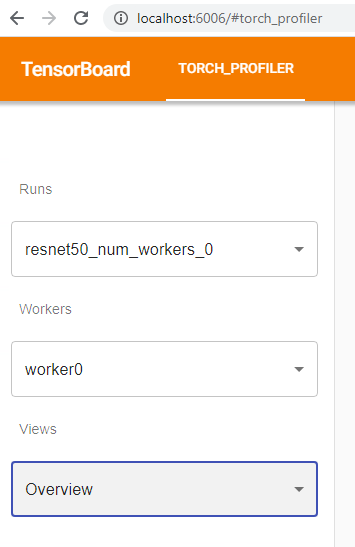
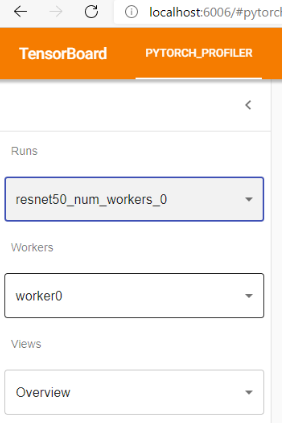
Update plugin's README.md (#55)

diff --git a/tb_plugin/README.md b/tb_plugin/README.md
@@ -6,9 +6,9 @@
 
   `git clone https://github.com/pytorch/kineto.git`
 
-* Navigate to the plugin directory
+* Navigate to the kineto/tb_plugin directory
 
-* Install pytorch_profiler
+* Install the profiler
 
   `pip install .`
 
@@ -26,7 +26,7 @@
 * Start tensorboard
 
   Specify your profiling samples folder.
-  Or you can specify <pytorch_profiler>/samples as an example.
+  Or you can specify kineto/tb_plugin/samples as an example.
 
   `tensorboard --logdir=./samples`
 
@@ -41,16 +41,20 @@
 
   Open URL `http://localhost:6006` in the browser.
 
-* Navigate to TORCH_PROFILER tab
+* Navigate to PYTORCH_PROFILER tab
 
-  If the files under `--logdir` are too big or too many.
-  Refresh the browser to check latest loaded result.
+  If the files under `--logdir` are too big or too many, 
+  please wait a while and refresh the browser to check latest loaded result.
 
 ### Quick Usage Instructions
 
-The profiler organizes each sub-folder under "--logdir" as a run.
-In each run, there could be multiple processes if DDP is used.
-Each process's dumped chrome tracing file is called a worker.
+We regard each running with profiler enabled as a "run".
+In most cases a run is a single process. If DDP is enabled, then a run includes multiple processes.
+We name each process as a "worker".
+
+Each run corresponds to a sub-folder under "--logdir" specified folder.
+Under each run's sub-folder, each file is one worker's dumped chrome tracing file.
+The kineto/tb_plugin/samples is an example of how to organize the files.
 
 You can select run and worker on the left control panel.
    
@@ -96,25 +100,31 @@ Such as cudaLaunchKernel, cudaMemcpyAsync, cudaStreamSynchronize, ...
 
 6. CPU Exec: Host compute time, including every PyTorch operator running time;
 
-7. Other: The time that is not included in any of the above.
+7. Other: The time not included in any of the above.
 
-Note: The summary of all the above categories is end-to-end wall-clock time. 
-We count time by priority. The time cost with highest priority category(Kernel) is counted firstly, 
-then Memcpy, then Memset, ...,  and Other is last counted.
-In the following example, the "Kernel" is counted firstly as 7-6 seconds; 
+Note: The summary of all the above categories is end-to-end wall-clock time.
+ 
+The above list is ranked by priority from high to low. We count time by priority.
+The time cost with highest priority category(Kernel) is counted firstly, 
+then Memcpy, then Memset, ...,  and Other is last counted. 
+In the following example, the "Kernel" is counted firstly as 7-2=5 seconds; 
 Then the "Memcpy" is counted as 0 seconds, because it is fully hidden by "Kernel"; 
-Then "CPU Exec" is counted as 2-1 seconds, because the [2,3] interval is hidden by "Kernel", only [1,2] interval is counted.  
+Then "CPU Exec" is counted as 2-1=1 seconds, because the [2,3] interval is hidden by "Kernel", only [1,2] interval is counted.
+
+In this way, summarization of all the 7 categories' counted time in a step 
+will be the same with this step's total wall clock time.
+     
 ![Alt text](https://github.com/pytorch/kineto/blob/tb_plugin/tb_plugin/docs/images/time_breakdown_priority.PNG)
 
-Performance Recommendation: Leverage the profiling result to automatically get the bottlenecks 
-and give suggestions to optimize. 
+Performance Recommendation: Leverage the profiling result to automatically give user hints of bottlenecks,  
+and give user feasible suggestions to optimize. 
  
 * Operator View
 
-This view displays the performance of every Pytorch operator that is executed either on the host or device.
+This view displays the performance of every PyTorch operator that is executed either on the host or device.
 
 ![Alt text](https://github.com/pytorch/kineto/blob/tb_plugin/tb_plugin/docs/images/operator_view.PNG)
-Each table row is a “Pytorch operator”, which is a computation operator in C++ side, 
+Each table row is a PyTorch operator, which is a computation operator implemented by C++, 
 such as “aten::relu_”, “aten::convolution”.
 
 Calls: The operator's number of calls.
@@ -129,15 +139,16 @@ Host Total Duration: The accumulated time spent on Host, including this operator
 
 Note: Each above duration means wall-clock time. It doesn't mean the GPU or CPU during this period is fully utilized.
 
-The top 4 pie charts are visualizations of the above 4 columns. 
+The top 4 pie charts are visualizations of the above 4 columns of durations. 
 They could show each operator's time percentage more straight forward.
-You can change how many operators with top accumulated time to show in the pie charts. 
+Only N operators with top most durations will be shown in the pie charts. And you can change this N in the text box. 
 
 The search box enables searching operators by name.
 
 “Group By” could choose between “Operator” and “Operator + Input Shape”. 
-The “Input Shape” is each operator’s input argument list’s tensor shapes, 
-“[]” is scalar type. For example, “[[32, 256, 14, 14], [1024, 256, 1, 1], [], [], [], [], [], [], []]” 
+The “Input Shape” is shapes of tensors in this operator’s input argument list.
+The empty “[]” means argument with scalar type. 
+For example, “[[32, 256, 14, 14], [1024, 256, 1, 1], [], [], [], [], [], [], []]” 
 means this operator has 9 input arguments, 
 1st is a tensor of size 32\*256\*14\*14, 
 2nd is a tensor of size 1024\*256\*1\*1, 
@@ -147,13 +158,9 @@ the following 7 ones are scalar variables.
 
 * Kernel View
 
-This view shows all kernels’ time spent on GPU. The time is got from kernel’s end time minus kernel’s start time. 
+This view shows all kernels’ time spent on GPU. The time is got by the kernel's end time minus its start time. 
 
-Note: It does not include cudaMemcpy or cudaMemset now.
-
-Note: This time just records a kernel's elapsed time on GPU device. 
-It does not mean GPU is fully busy during this time interval. 
-That is, GPU occupancy may be less than 100% during this time interval. 
+Note: This view does not include cudaMemcpy or cudaMemset. Because they are not kernels.
 
 ![Alt text](https://github.com/pytorch/kineto/blob/tb_plugin/tb_plugin/docs/images/kernel_view.PNG)
 
@@ -165,19 +172,25 @@ Max Duration: The maximum time duration among all calls.
 
 Min Duration: The minimum time duration among all calls.
 
-The top pie is a visualization of "Total Duration" column. 
+Note: This duration just records a kernel's elapsed time on GPU device. 
+It does not mean the GPU is fully busy during this time interval. 
+In another word, GPU occupancy may be less than 100% during this time interval.
+
+The top pie chart is a visualization of "Total Duration" column. 
 It could show each kernel's time percentage more straight forward.
-You can change how many kernels with top accumulated time to show in the pie chart. 
+Only N kernels with top most accumulated time will be shown in the pie chart.
+And you can change this N in the text box. 
 
 The search box enables searching kernels by name.
+
 “Group By” could choose between “Kernel Name” and “Kernel Name + Op Name”. 
-The "Operator" is the operator which launches this kernel.
+The "Operator" is the PyTorch operator which launches this kernel.
 
 * Trace View
 
-This view shows time line in chrome tracing. Each horizontal bar represents a thread or a CUDA stream.
-Each range interval represents an operator, or a CUDA runtime, or a GPU op which executes on GPU 
-such as a kernel, a CUDA memory copy, a CUDA memory set, ...
+This view shows time line in chrome tracing. Each horizontal area represents a thread or a CUDA stream.
+Each colored rectangle represents an operator, or a CUDA runtime, or a GPU op which executes on GPU
+(such as a kernel, a CUDA memory copy, a CUDA memory set, ...)
 
 ![Alt text](https://github.com/pytorch/kineto/blob/tb_plugin/tb_plugin/docs/images/trace_view.PNG)
 
@@ -185,19 +198,21 @@ In the above example:
 
 The “thread 0” is the CPU thread that do “backward” of neural network.
 
-The “thread 1” is the main CPU thread, which mainly do data loading, forward of neural network, Optimizer.step.
+The “thread 1” is the main CPU thread, which mainly do data loading, forward of neural network, and model update.
 
-The “stream 7” is CUDA stream trace line, you can see all kernels there.
+The “stream 7” is a CUDA stream, which shows all kernels of this stream.
 
-You can see there are 6 “ProfilerStep” we captured.
+You can see there are 6 “ProfilerStep” at the top of "thread 1". Each “ProfilerStep” represents a mini-batch step.
 
-When the up-down arrow is enabled, 
-you can zoom in or zoom out by dragging the mouse up or down with mouse's left button pushed.
+The suspended toolbar has functionalities to help view the trace line.
+For example, when the up-down arrow is enabled, 
+you can zoom in by dragging the mouse up and keeping mouse's left button pushed down.
 
 ![Alt text](https://github.com/pytorch/kineto/blob/tb_plugin/tb_plugin/docs/images/trace_view_one_step.PNG)
 
-The “Optimizer.step#SGD.step” and ”enumerate(DataLoader)#_SingleProcessDataLoaderIter.__next__”
-are high-level python side operations.
+The “Optimizer.step#SGD.step” and ”enumerate(DataLoader)#_SingleProcessDataLoaderIter.\__next\__”
+are high-level python side functions.
 
-When you select right-top corner's “Flow events” to ”async”, you can see which operator launched which GPU kernel.
+When you select top-right corner's “Flow events” to ”async”, 
+you can see the relationship between operator and its launched kernels.
 ![Alt text](https://github.com/pytorch/kineto/blob/tb_plugin/tb_plugin/docs/images/trace_view_launch.PNG)
